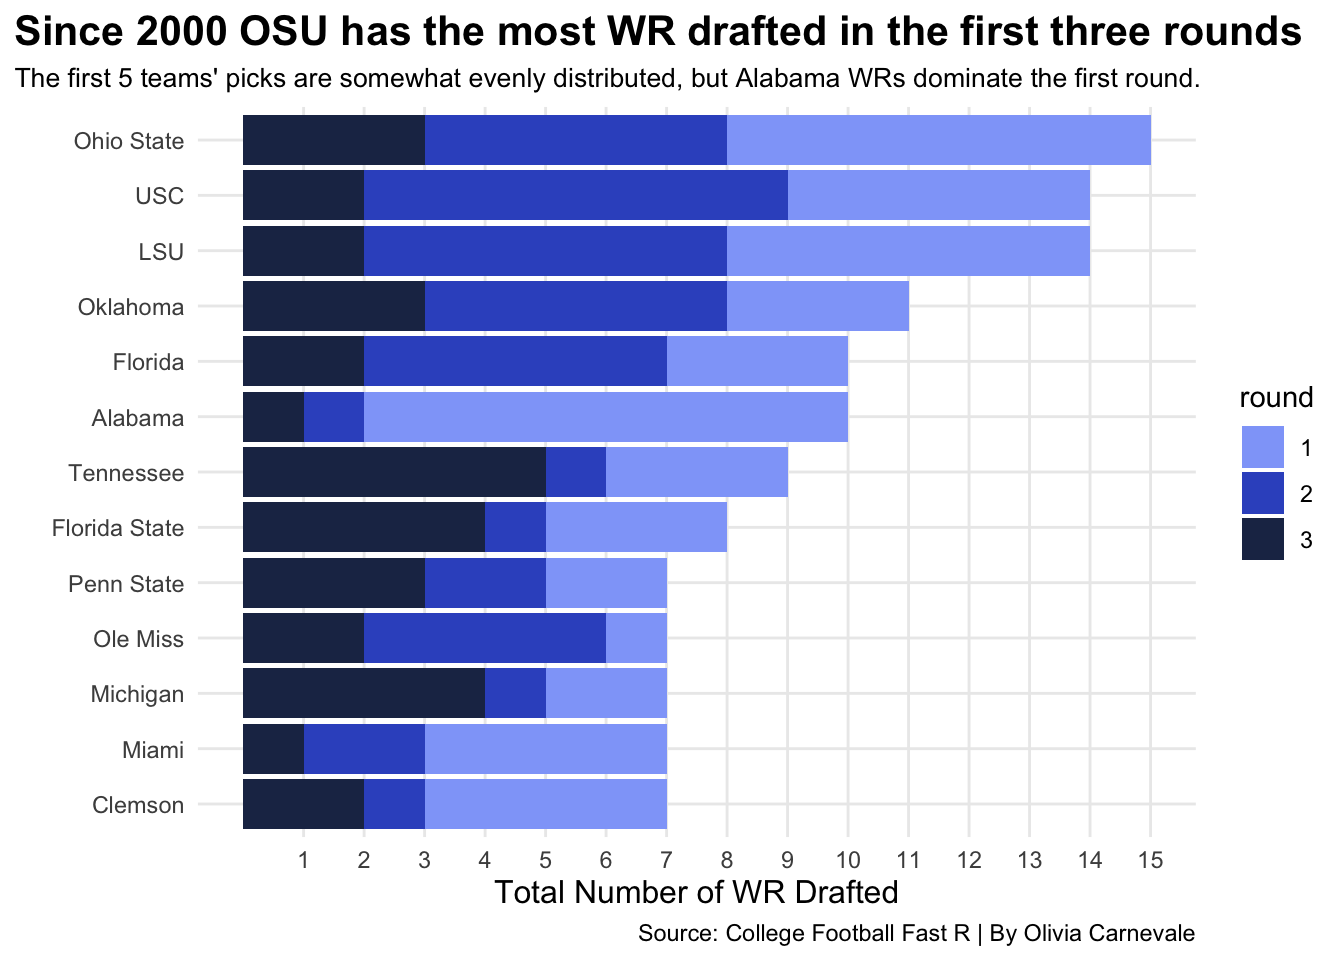
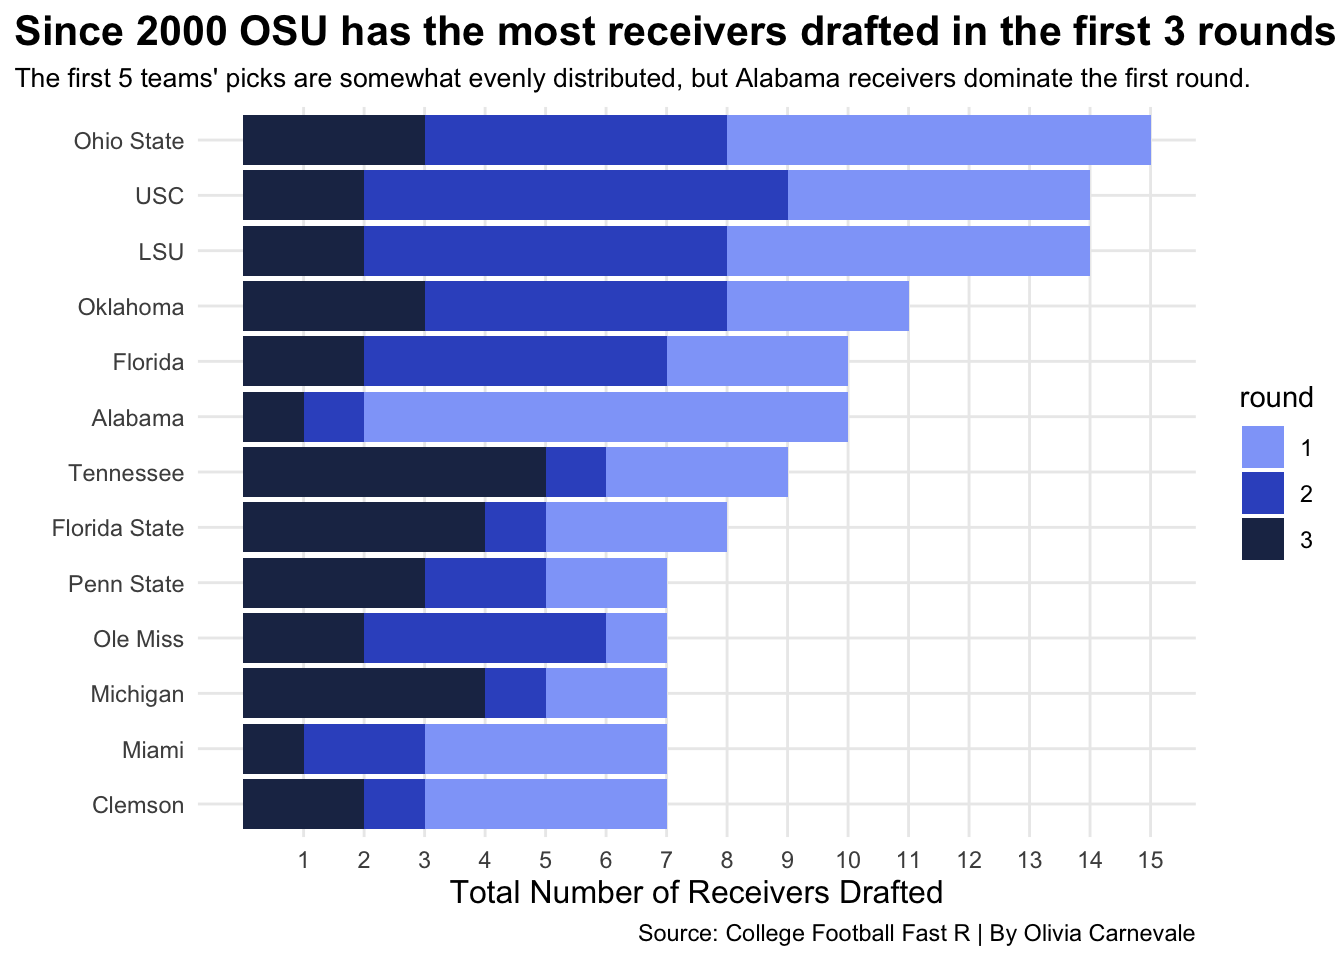
wru commit 5

Changed region(s): [[0.4375, 0.0, 1.0, 0.0938], [0.3438, 0.9062, 0.7188, 0.9375]]

diff --git a/posts/what-school-is-wru/index.html b/posts/what-school-is-wru/index.html
@@ -9,7 +9,7 @@
 <meta name="author" content="Olivia Carnevale">
 <meta name="dcterms.date" content="2023-05-07">
 
-<title>Olivia Carnevale’s blog - Who is the Modern WRU?</title>
+<title>Olivia Carnevale’s blog - Who is the Modern Wide Receiver U?</title>
 <style>
 code{white-space: pre-wrap;}
 span.smallcaps{font-variant: small-caps;}
@@ -173,7 +173,7 @@ code span.wa { color: #60a0b0; font-weight: bold; font-style: italic; } /* Warni
 <header id="title-block-header" class="quarto-title-block default page-columns page-full">
   <div class="quarto-title-banner page-columns page-full">
     <div class="quarto-title column-body">
-      <h1 class="title">Who is the Modern WRU?</h1>
+      <h1 class="title">Who is the Modern Wide Receiver U?</h1>
                                 <div class="quarto-categories">
                 <div class="quarto-category">football</div>
                 <div class="quarto-category">wru</div>
@@ -212,9 +212,9 @@ code span.wa { color: #60a0b0; font-weight: bold; font-style: italic; } /* Warni
 
 
 
-<p>Justin Jefferson. Ja’Marr Chase. LSU. WRU. As a, let’s say, mild, Ohio State and Packers fan, hearing those names, that school, that argument every time I watch a football-related show is grating on my ears. But who really is the modern WRU? Am I petty, is it actually the Tigers with recent outputs like Jefferson and Chase? I went into this willing to get my feelings hurt, this time, of my own doing, but let’s see how it went.&nbsp;</p>
-<p>First, what teams deserve to be in this argument? For this, I looked at the number of draft picks by the top schools, specifically in rounds one through three, since the year 2000.&nbsp;</p>
-<p>Who are the WRU-conversation-worthy teams? Ohio State, LSU, USC, Oklahoma, Florida and Alabama. And to my (pleasant) surprise, LSU isn’t on top, Ohio State is thanks to Jaxon Smith-Njigba’s first-round selection by the Seattle Seahawks (count one of hurt feelings for me) just over a week ago.&nbsp;</p>
+<p>Justin Jefferson. Ja’Marr Chase. LSU. Wide Receiver U. Football-related talk shows are often oversaturated with these topics, but is it warranted? Are the Tigers the obvious WRU choice with recent outputs like Jefferson and Chase and should be praised, or are there others that should be considered and make this conversation interesting?</p>
+<p>So, who are the schools that deserve to stand beside LSU and be included in this argument? This can be determined by looking at schools that successfully get players drafted. Specifically, the number of wide receiver draft picks by the top schools in the top rounds, rounds one through three, since the year 2000.</p>
+<p>Who are these WRU-conversation-worthy teams? Ohio State, LSU, USC, Oklahoma, Florida and Alabama, who, interestingly dominates the first round. Additionally, the ever-praised LSU isn’t on top, it's close, but Ohio State takes first place thanks to Jaxon Smith-Njigba’s first-round selection by the Seattle Seahawks just over a week ago. &nbsp;</p>
 <div class="cell">
 <details>
 <summary>Code</summary>
@@ -357,9 +357,9 @@ code span.wa { color: #60a0b0; font-weight: bold; font-style: italic; } /* Warni
 <span id="cb1-137"><a href="#cb1-137" aria-hidden="true" tabindex="-1"></a>  <span class="fu">scale_y_continuous</span>(<span class="at">breaks=</span><span class="fu">c</span>(<span class="dv">1</span>,<span class="dv">2</span>,<span class="dv">3</span>,<span class="dv">4</span>,<span class="dv">5</span>,<span class="dv">6</span>,<span class="dv">7</span>,<span class="dv">8</span>,<span class="dv">9</span>,<span class="dv">10</span>,<span class="dv">11</span>,<span class="dv">12</span>,<span class="dv">13</span>,<span class="dv">14</span>,<span class="dv">15</span>)) <span class="sc">+</span></span>
 <span id="cb1-138"><a href="#cb1-138" aria-hidden="true" tabindex="-1"></a>  <span class="fu">labs</span>(</span>
 <span id="cb1-139"><a href="#cb1-139" aria-hidden="true" tabindex="-1"></a>    <span class="at">x=</span><span class="st">""</span>, </span>
-<span id="cb1-140"><a href="#cb1-140" aria-hidden="true" tabindex="-1"></a>    <span class="at">y=</span><span class="st">"Total Number of WR Drafted"</span>,</span>
-<span id="cb1-141"><a href="#cb1-141" aria-hidden="true" tabindex="-1"></a>    <span class="at">title=</span><span class="st">"Since 2000 OSU has the most WR drafted in the first three rounds"</span>, </span>
-<span id="cb1-142"><a href="#cb1-142" aria-hidden="true" tabindex="-1"></a>    <span class="at">subtitle=</span><span class="st">"The first 5 teams' picks are somewhat evenly distributed, but Alabama WRs dominate the first round."</span>,</span>
+<span id="cb1-140"><a href="#cb1-140" aria-hidden="true" tabindex="-1"></a>    <span class="at">y=</span><span class="st">"Total Number of Receivers Drafted"</span>,</span>
+<span id="cb1-141"><a href="#cb1-141" aria-hidden="true" tabindex="-1"></a>    <span class="at">title=</span><span class="st">"Since 2000 OSU has the most receivers drafted in the first 3 rounds"</span>, </span>
+<span id="cb1-142"><a href="#cb1-142" aria-hidden="true" tabindex="-1"></a>    <span class="at">subtitle=</span><span class="st">"The first 5 teams' picks are somewhat evenly distributed, but Alabama receivers dominate the first round."</span>,</span>
 <span id="cb1-143"><a href="#cb1-143" aria-hidden="true" tabindex="-1"></a> <span class="at">caption=</span> <span class="st">"Source: College Football Fast R | By Olivia Carnevale"</span>) <span class="sc">+</span></span>
 <span id="cb1-144"><a href="#cb1-144" aria-hidden="true" tabindex="-1"></a>  <span class="fu">theme_minimal</span>() <span class="sc">+</span> </span>
 <span id="cb1-145"><a href="#cb1-145" aria-hidden="true" tabindex="-1"></a>  <span class="fu">theme</span>(</span>
@@ -374,8 +374,8 @@ code span.wa { color: #60a0b0; font-weight: bold; font-style: italic; } /* Warni
 <p><img src="index_files/figure-html/unnamed-chunk-1-1.png" class="img-fluid" width="672"></p>
 </div>
 </div>
-<p>Now that we know what teams produce draft picks, what have these picks done once in the NFL? Let’s zoom in a little bit. Sure, the Buckeyes may have the most top round picks since 2000, but what about recently? What about these receivers’ NFL production? To determine this, we will shift our focus to the past five years and to season total yards.</p>
-<p>To understand how these teams developed their wide receivers, we also will focus on rookie numbers: what school produces the most NFL-ready wide receivers? Bringing yards into it, we will look at which school’s wide receivers average the most yards their rookie seasons and how that stacks up to the average NFL rookie. Again, Ohio State’s on top due to consistent quantity, but with USC narrowly behind.</p>
+<p>Now it's apparent which schools produce draft picks, but what have these picks done once in the NFL? Sure, the Buckeyes may have the most top round draft picks since 2000, but what about recently? What about these receivers' NFL production? To determine the modern WRU, it's important to shift the focus to the past five years and to rookie season total yards.</p>
+<p>Further, to focus on how these schools developed their wide receivers, it's beneficial to focus on rookie numbers to answer the key questions: What school produces the most NFL-ready wide receivers? Which school’s wide receivers average the most yards their rookie seasons and how does that stack up to the average NFL rookie? Again, Ohio State’s on top due to consistent quantity, but with USC narrowly behind.</p>
 <div class="cell">
 <details>
 <summary>Code</summary>
@@ -434,12 +434,12 @@ code span.wa { color: #60a0b0; font-weight: bold; font-style: italic; } /* Warni
 <span id="cb2-53"><a href="#cb2-53" aria-hidden="true" tabindex="-1"></a>  <span class="fu">labs</span>(</span>
 <span id="cb2-54"><a href="#cb2-54" aria-hidden="true" tabindex="-1"></a>    <span class="at">x=</span><span class="st">""</span>, </span>
 <span id="cb2-55"><a href="#cb2-55" aria-hidden="true" tabindex="-1"></a>    <span class="at">y=</span><span class="st">"Average Rookie Recieving Yards"</span>,</span>
-<span id="cb2-56"><a href="#cb2-56" aria-hidden="true" tabindex="-1"></a>    <span class="at">title=</span><span class="st">"Recent OSU WRs average the most yards in their rookie seasons"</span>, </span>
-<span id="cb2-57"><a href="#cb2-57" aria-hidden="true" tabindex="-1"></a>    <span class="at">subtitle=</span><span class="st">"In the past 5 years' WR rookie classes, OSU's surpass other WR powerhouses, highlighted below, in rec yards."</span>,</span>
+<span id="cb2-56"><a href="#cb2-56" aria-hidden="true" tabindex="-1"></a>    <span class="at">title=</span><span class="st">"Recent OSU receivers average the most rookie-season yards"</span>, </span>
+<span id="cb2-57"><a href="#cb2-57" aria-hidden="true" tabindex="-1"></a>    <span class="at">subtitle=</span><span class="st">"In the past 5 years' receiver rookie classes, OSU's surpass other powerhouses, highlighted below, in rec yards."</span>,</span>
 <span id="cb2-58"><a href="#cb2-58" aria-hidden="true" tabindex="-1"></a> <span class="at">caption=</span> <span class="st">"Sources: College Football Fast R, Sports Reference | By Olivia Carnevale"</span>) <span class="sc">+</span></span>
 <span id="cb2-59"><a href="#cb2-59" aria-hidden="true" tabindex="-1"></a>  <span class="fu">theme_minimal</span>() <span class="sc">+</span> </span>
 <span id="cb2-60"><a href="#cb2-60" aria-hidden="true" tabindex="-1"></a>  <span class="fu">theme</span>(</span>
-<span id="cb2-61"><a href="#cb2-61" aria-hidden="true" tabindex="-1"></a>    <span class="at">plot.title =</span> <span class="fu">element_text</span>(<span class="at">size =</span> <span class="fl">15.4</span>, <span class="at">face =</span> <span class="st">"bold"</span>),</span>
+<span id="cb2-61"><a href="#cb2-61" aria-hidden="true" tabindex="-1"></a>    <span class="at">plot.title =</span> <span class="fu">element_text</span>(<span class="at">size =</span> <span class="fl">15.5</span>, <span class="at">face =</span> <span class="st">"bold"</span>),</span>
 <span id="cb2-62"><a href="#cb2-62" aria-hidden="true" tabindex="-1"></a>    <span class="at">axis.title =</span> <span class="fu">element_text</span>(<span class="at">size =</span> <span class="dv">12</span>), </span>
 <span id="cb2-63"><a href="#cb2-63" aria-hidden="true" tabindex="-1"></a>    <span class="at">plot.subtitle =</span> <span class="fu">element_text</span>(<span class="at">size=</span><span class="dv">10</span>), </span>
 <span id="cb2-64"><a href="#cb2-64" aria-hidden="true" tabindex="-1"></a>    <span class="at">panel.grid.minor =</span> <span class="fu">element_blank</span>(),</span>
@@ -451,9 +451,9 @@ code span.wa { color: #60a0b0; font-weight: bold; font-style: italic; } /* Warni
 <p><img src="index_files/figure-html/unnamed-chunk-2-1.png" class="img-fluid" width="672"></p>
 </div>
 </div>
-<p>So, the Buckeyes may produce a high quantity of the most consistently strong average NFL rookie wide receivers. But who has the biggest stars, the biggest standouts? This leads us back to Jefferson and Chase. This leads us to look at the wide receivers with the most outstanding per game metrics in their rookie seasons, again, in relation to the average rookie.&nbsp;</p>
+<p>The Buckeyes may produce a high quantity of the most consistently strong average NFL rookie receivers, but what school has the biggest stars, the biggest standouts? This leads back to Jefferson and Chase. This leads to the discussion of wide receivers with the most outstanding per game metrics in their rookie seasons, again, in relation to the average rookie.&nbsp;</p>
 <p>To no surprise, Jefferson and Chase are far out in front; they are the modern superstars. However, LSU isn’t the only school that produces standout wide receivers, each top team in the conversation defined earlier, except Florida, has at least one great rookie from the past five years.&nbsp;</p>
-<p>LSU may have two far in front, one better in yards per game, the other in touchdowns per game, but the Crimson Tide’s are close and the Buckeyes even tighter, both producing consistent, balanced outputs.&nbsp;</p>
+<p>Additionally, LSU may have two far in front, one better in yards per game, the other in touchdowns per game, but the Crimson Tide’s are close and the Buckeyes’ even tighter, both producing consistent, balanced outputs.&nbsp;</p>
 <p>In addition, there are only two schools to produce a wide receiver NFL Offensive Rookie of the Year in this time period: LSU and Ohio State.</p>
 <div class="cell">
 <details>
@@ -539,7 +539,7 @@ code span.wa { color: #60a0b0; font-weight: bold; font-style: italic; } /* Warni
 <span id="cb3-79"><a href="#cb3-79" aria-hidden="true" tabindex="-1"></a> <span class="at">caption=</span> <span class="st">"Sources: College Football Fast R, Sports Reference | By Olivia Carnevale"</span>) <span class="sc">+</span></span>
 <span id="cb3-80"><a href="#cb3-80" aria-hidden="true" tabindex="-1"></a>  <span class="fu">theme_minimal</span>() <span class="sc">+</span> </span>
 <span id="cb3-81"><a href="#cb3-81" aria-hidden="true" tabindex="-1"></a>  <span class="fu">theme</span>(</span>
-<span id="cb3-82"><a href="#cb3-82" aria-hidden="true" tabindex="-1"></a>    <span class="at">plot.title =</span> <span class="fu">element_text</span>(<span class="at">size =</span> <span class="fl">15.4</span>, <span class="at">face =</span> <span class="st">"bold"</span>),</span>
+<span id="cb3-82"><a href="#cb3-82" aria-hidden="true" tabindex="-1"></a>    <span class="at">plot.title =</span> <span class="fu">element_text</span>(<span class="at">size =</span> <span class="fl">15.5</span>, <span class="at">face =</span> <span class="st">"bold"</span>),</span>
 <span id="cb3-83"><a href="#cb3-83" aria-hidden="true" tabindex="-1"></a>    <span class="at">axis.title =</span> <span class="fu">element_text</span>(<span class="at">size =</span> <span class="dv">12</span>), </span>
 <span id="cb3-84"><a href="#cb3-84" aria-hidden="true" tabindex="-1"></a>    <span class="at">plot.subtitle =</span> <span class="fu">element_text</span>(<span class="at">size=</span><span class="dv">10</span>), </span>
 <span id="cb3-85"><a href="#cb3-85" aria-hidden="true" tabindex="-1"></a>    <span class="at">panel.grid.minor =</span> <span class="fu">element_blank</span>(),</span>
@@ -551,9 +551,9 @@ code span.wa { color: #60a0b0; font-weight: bold; font-style: italic; } /* Warni
 <p><img src="index_files/figure-html/unnamed-chunk-3-1.png" class="img-fluid" width="672"></p>
 </div>
 </div>
-<p>However, this still doesn’t lead us to one direct answer for who is WRU. Sure, Ohio State pumps out draft picks, but LSU and USC are not far behind. The Buckeyes again produce the most consistent, great rookies, again, with USC narrowly behind. LSU, on the other hand, produces the biggest stars with Alabama and Ohio State showing strength in numbers.</p>
+<p>However, this still doesn’t lead to one direct answer for what school is WRU. Sure, Ohio State pumps out draft picks, but LSU and USC are not far behind. The Buckeyes again produce the most consistent, great rookies, again, with USC narrowly behind. LSU, on the other hand, shows their strength in producing the biggest stars, while Alabama and Ohio State show strength in numbers.</p>
 <p>This turns it to you, what do you value most for a WRU team? Is it producing a high quantity, not solely numbers, but of consistently strong NFL wide receivers? If so, your answer should be Ohio State. Is it producing superstars every few years? If so, then it’s LSU. Is it somewhere in the middle, leading to Alabama?</p>
-<p>I’m sure you can guess what my answer is, but for you, I’ll let the graphs do the talking.&nbsp;</p>
+<p>To aid your decision, I’ll let the graphs do the talking.</p>
 <p><br>
 <br>
 <br>

diff --git a/index.html b/index.html
@@ -171,14 +171,14 @@ ul.task-list li input[type="checkbox"] {
 
 <div class="quarto-listing quarto-listing-container-default" id="listing-listing">
 <div class="list quarto-listing-default">
-<div class="quarto-post image-right" data-index="0" data-categories="football,wru" data-listing-date-sort="1683435600000" data-listing-file-modified-sort="1683044521988" data-listing-reading-time-sort="8.955">
+<div class="quarto-post image-right" data-index="0" data-categories="football,wru" data-listing-date-sort="1683435600000" data-listing-file-modified-sort="1683146442680" data-listing-reading-time-sort="8.885">
 <div class="thumbnail">
 <p><a href="./posts/what-school-is-wru/index.html"> <img src="./posts/what-school-is-wru/img.png" class="thumnail-image"> </a></p>
 </div>
 <div class="body">
 <a href="./posts/what-school-is-wru/index.html">
 <h3 class="no-anchor listing-title">
-Who is the Modern WRU?
+Who is the Modern Wide Receiver U?
 </h3>
 <div class="listing-subtitle">
 
@@ -194,7 +194,7 @@ wru
 </div>
 <a href="./posts/what-school-is-wru/index.html">
 <div class="listing-description">
-Justin Jefferson. Ja’Marr Chase. LSU. WRU. As a, let’s say, mild, Ohio State and Packers fan, hearing those names, that school, that argument every time I watch a…
+Justin Jefferson. Ja’Marr Chase. LSU. Wide Receiver U. Football-related talk shows are often oversaturated with these topics, but is it warranted? Are the Tigers…
 </div>
 </a>
 </div>
